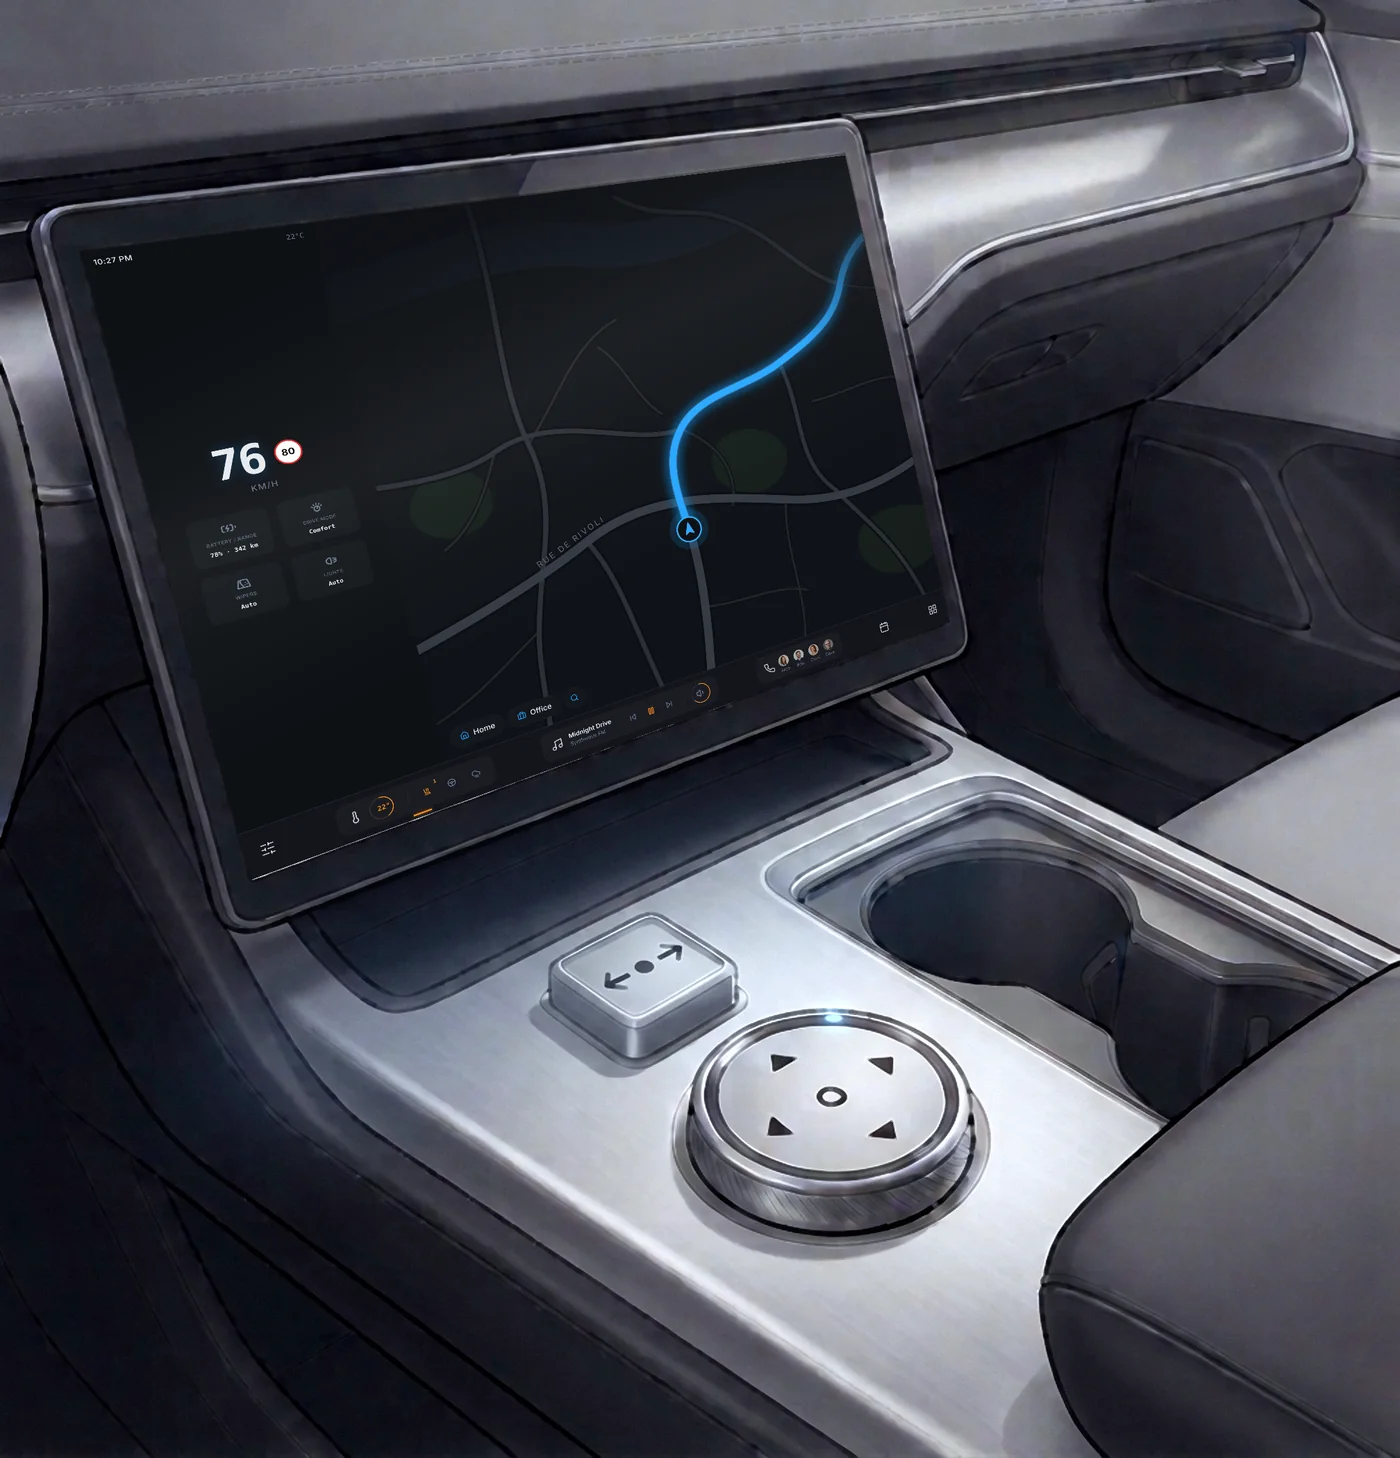
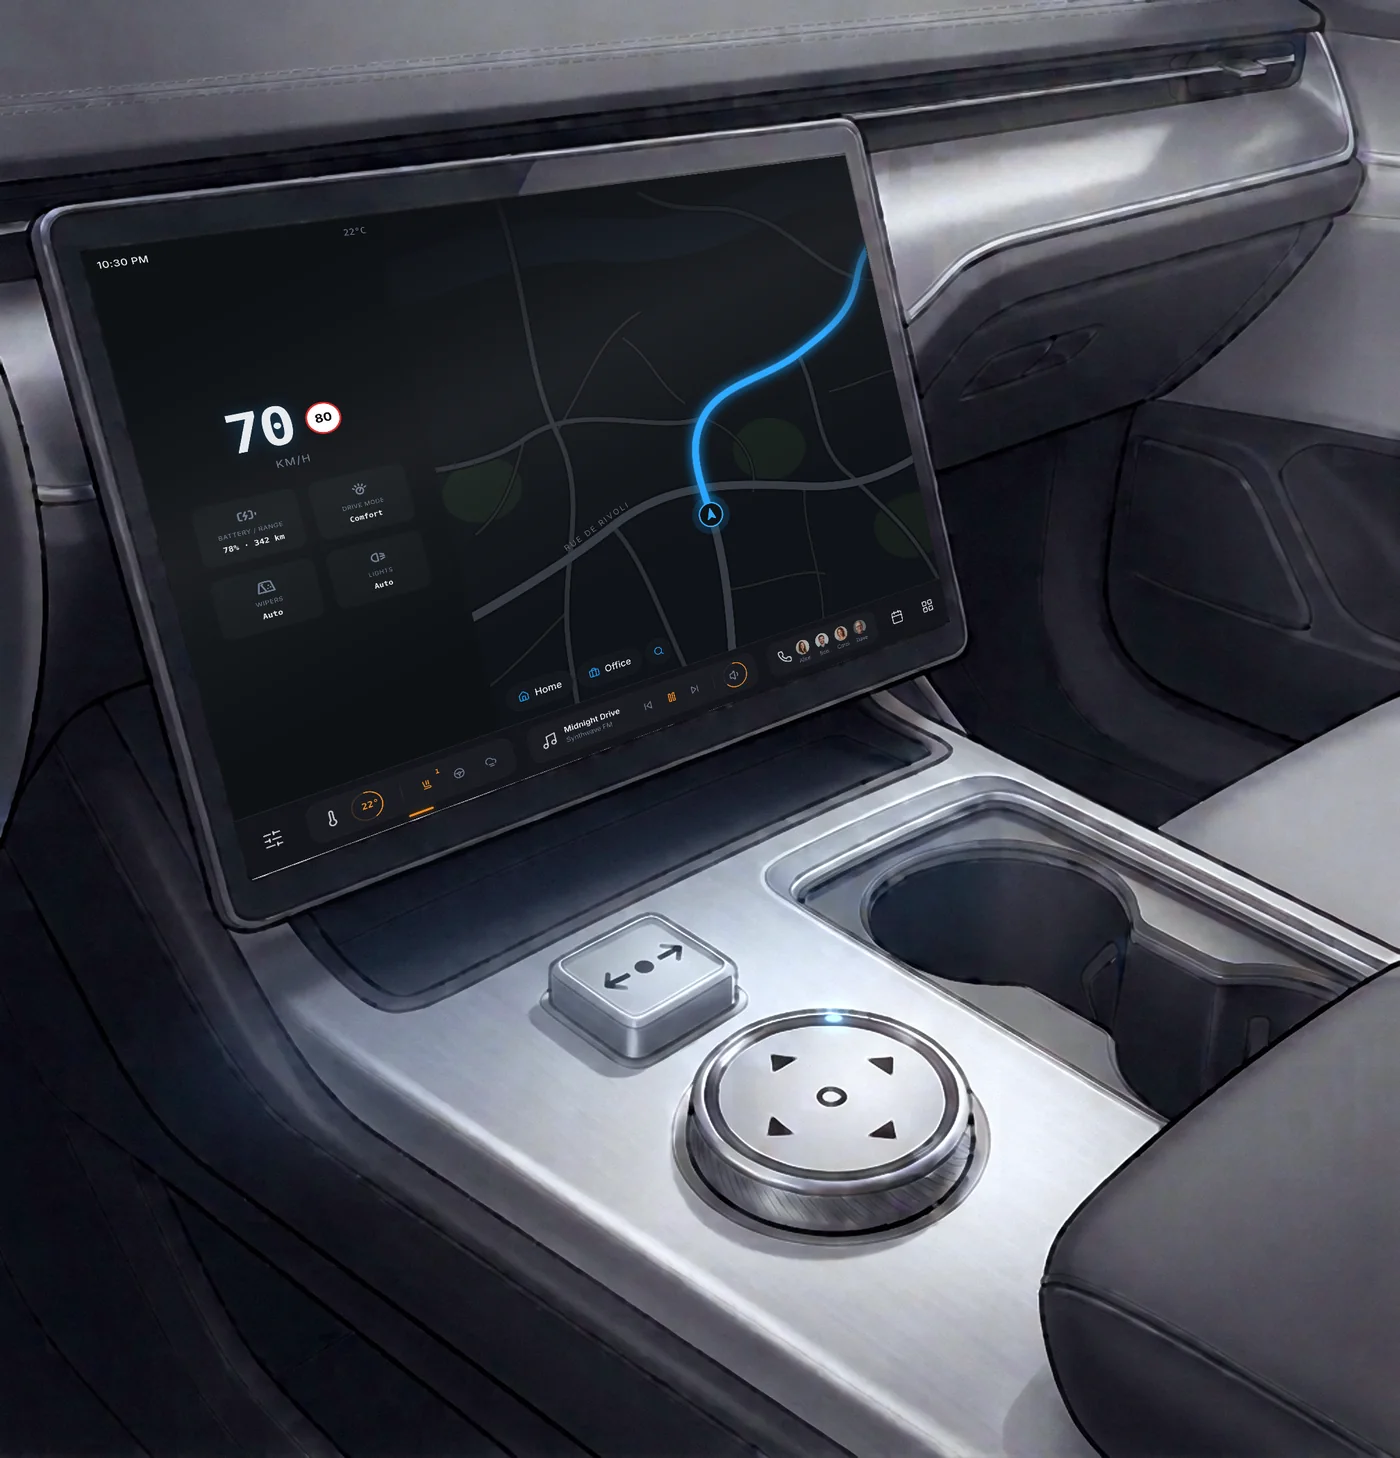
FlexiTact: larger UI on a taller 4:3 screen
Claude-Session: https://claude.ai/code/session_01NU2zxrHgFNW8VtDDeJdMEd

diff --git a/index.html b/index.html
@@ -222,7 +222,7 @@ ul{list-style:none;margin:0;padding:0}
           <div class="ivi-cabin"><img src="assets/flexitact-cabin.webp" width="1400" height="1458" alt="FlexiTact in a car: the real infotainment UI on the centre screen, with the jog toggle and rotary joystick on the centre console"></div>
           <div class="ivi-side">
             <div class="phone-wrap ivi-wrap">
-              <div class="ivi-screen"><img src="assets/flexitact-screen.webp" width="2000" height="1153" alt="FlexiTact infotainment screen with driving info, map and a taskbar of widgets, the climate widget in focus"></div>
+              <div class="ivi-screen"><img src="assets/flexitact-screen.webp" width="1600" height="1235" alt="FlexiTact infotainment screen with driving info, map and a taskbar of widgets, the climate widget in focus"></div>
               <img class="ivi-controls" src="assets/flexitact-controls.webp" width="708" height="402" alt="The jog toggle set to Climate and the rotary joystick adjusting temperature">
             </div>
           </div>
